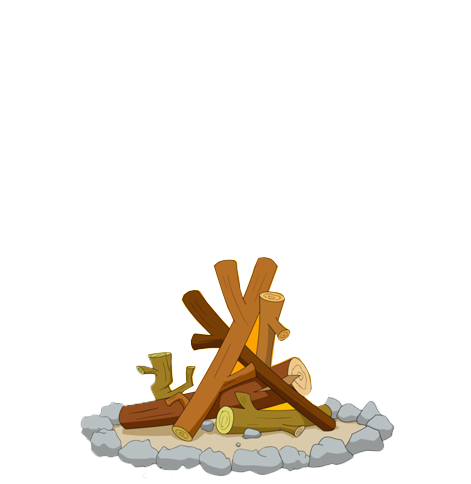
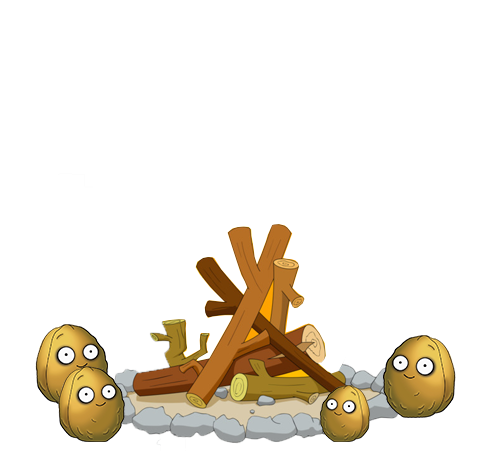
updated images and states

Changed region(s): [[0.0594, 0.4967, 0.9512, 0.9933]]

diff --git a/hotato/lib/main.dart b/hotato/lib/main.dart
@@ -24,7 +24,7 @@ class MyApp extends StatelessWidget {
         // Notice that the counter didn't reset back to zero; the application
         // is not restarted.
       ),
-      home: MyHomePage(titleAssest: 'assets/images/logo.png',),
+      home: MyHomePage(titleAssest: 'assets/images/logo_small.png',),
     );
   }
 }
@@ -54,6 +54,8 @@ class _MyHomePageState extends State<MyHomePage> {
   bool hasFlicked = false;
   bool hasLoggedIn = false;
   bool noPotato = false;
+  bool hasLost = false;
+
 
   @override
   Widget build(BuildContext context) {
@@ -76,13 +78,22 @@ class _MyHomePageState extends State<MyHomePage> {
       child: Image.asset('assets/images/safe/safe.png'),
     );
 
-    Widget spinningPotato = Column(
+    Widget timerHigh = Column(
       mainAxisAlignment: MainAxisAlignment.end,
       children: [
         Flexible(flex: 5, child: Container(alignment: AlignmentDirectional.bottomCenter, child: imageFling)),
         Flexible(flex: 4, child: Container(alignment: AlignmentDirectional.center, child: Image.asset('assets/images/firepit/1.firepit-middle.png',)))
       ]
     );
+
+    Widget timerLow = Column(
+      mainAxisAlignment: MainAxisAlignment.end,
+      children: [
+        Flexible(flex: 5, child: Container(alignment: AlignmentDirectional.bottomCenter, child: imageFling)),
+        Flexible(flex: 4, child: Container(alignment: AlignmentDirectional.center, child: Image.asset('assets/images/firepit/3.firepit-end.png',)))
+      ]
+    );
+
 
     Widget youreSafe = Column(
       mainAxisAlignment: MainAxisAlignment.end,
@@ -100,7 +111,7 @@ class _MyHomePageState extends State<MyHomePage> {
         // the App.build method, and use it to set our appbar title.
         title: headerImage,
       ),
-      body: hasLoggedIn ? (hasFlicked ? youreSafe : spinningPotato) : loginPage,
+      body: hasLoggedIn ? (hasFlicked ? youreSafe : timerHigh) : loginPage,
       floatingActionButton: FloatingActionButton(
         onPressed: onComplete,
         tooltip: 'Increment',

diff --git a/hotato/lib/imageFling.dart b/hotato/lib/imageFling.dart
@@ -138,7 +138,11 @@ class _ImageFlingState extends State<ImageFling> with TickerProviderStateMixin {
         alignment: _dragAlignment,
         child: RotationTransition(
           turns: Tween(begin: 0.0, end: 1.0).animate(animationController),
+<<<<<<< Updated upstream
           child: Image.asset(currentImage ?? 'assets/images/potatos/1.potato-happy.png', height: size.height * .5,),
+=======
+          child: Image.asset('assets/images/potatos/1.potato-happy.png', height: size.height * .3,),
+>>>>>>> Stashed changes
         )
       )
     );
